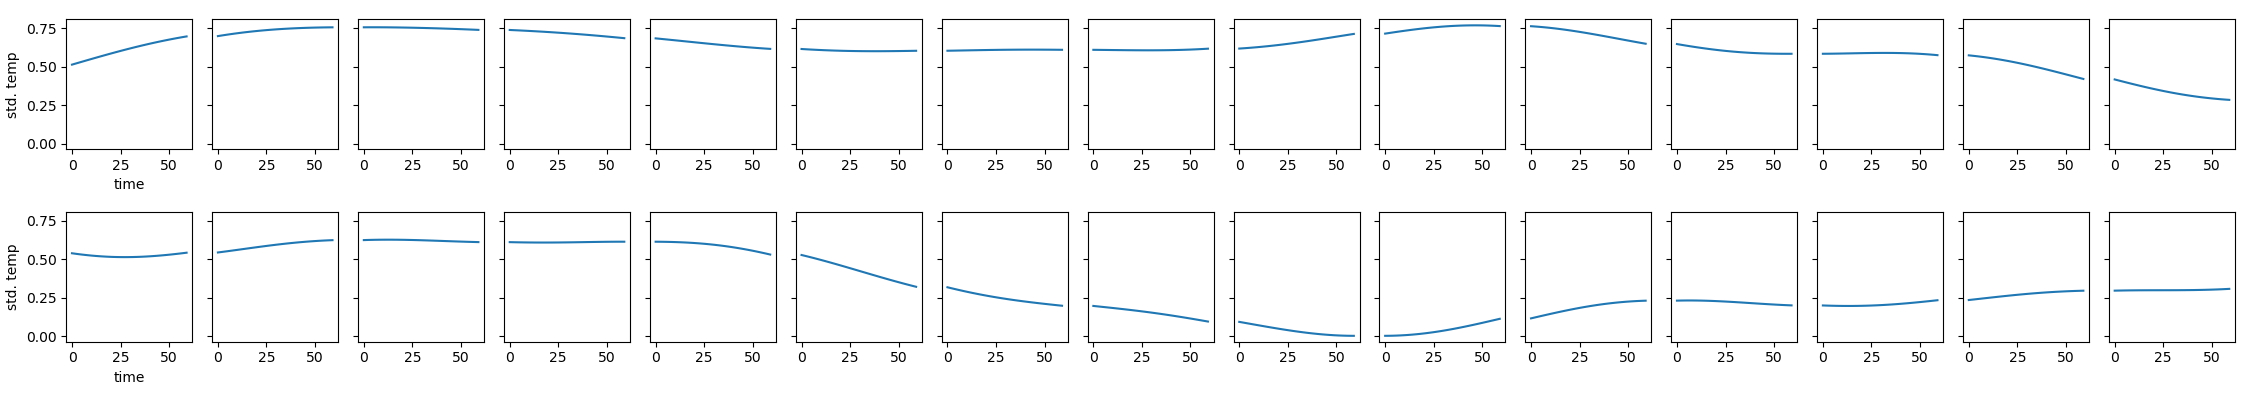
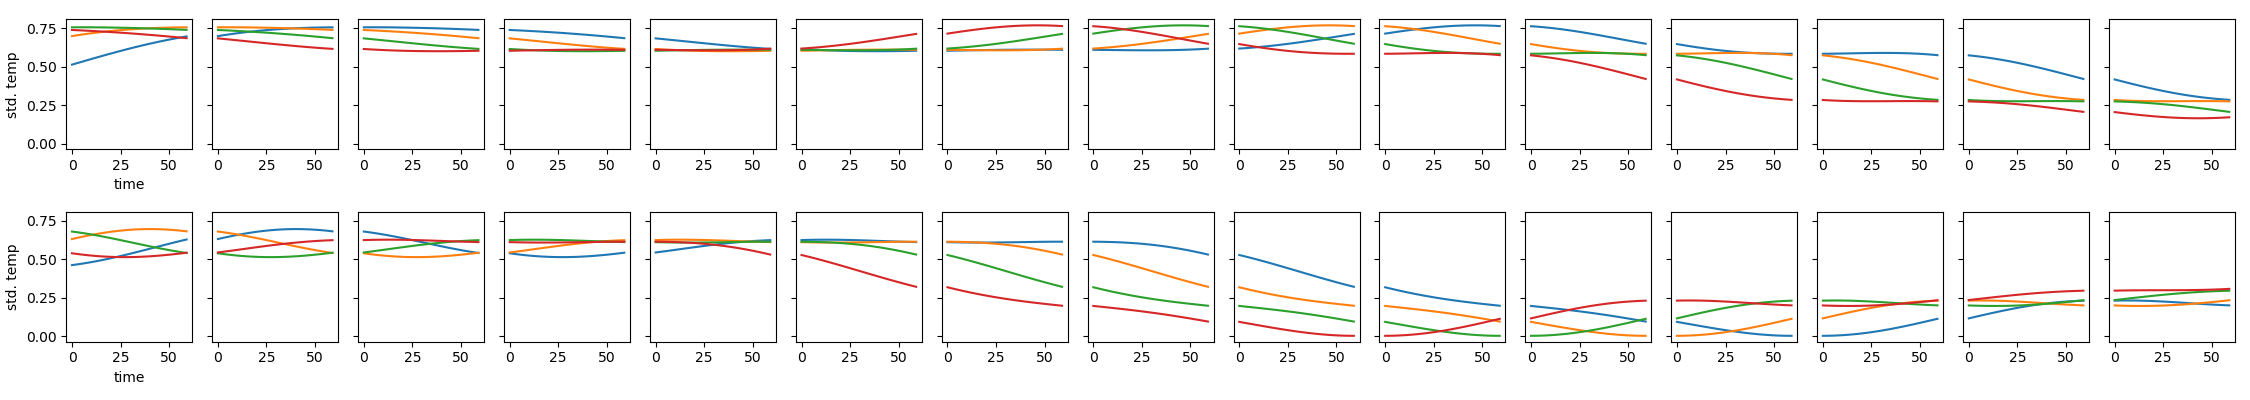
update mice model

diff --git a/mice_time_series_example.py b/mice_time_series_example.py
@@ -16,7 +16,7 @@ loader.load_ccd(path)
 
 lineName = ['CC001']
 segment_interval = 60
-embedding = [1, 0]  # time delayed embedding: [embedding dimension, delay]
+embedding = [4, 60]  # time delayed embedding: [embedding dimension, delay]
 miceDict = loader.get_cc_data_in_dict('CC001', segment_interval, embedding)
 miceDict_full = loader.get_cc_data_in_dict_full('CC001')
 # ----------------------------Prepare mice Data --------------------------------
@@ -65,11 +65,13 @@ inout_seq = healthy_train + sick_train
 
 fig, axes = plt.subplots(nrows=2, ncols=train_size, sharey='all', figsize=(train_size*1.5, 4))
 for i in range(train_size):
-    axes[0, i].plot(healthy_train[i][0][:, 0], label="negative_%d" % i)
+    for j in range(embedding[0]):
+        axes[0, i].plot(healthy_train[i][0][:, j], label="negative_%d" % i)
     if i == 0:
         axes[0, i].set_xlabel('time')
         axes[0, i].set_ylabel('std. temp')
-    axes[1, i].plot(sick_train[i][0][:, 0], label="positive_%d" % i)
+    for j in range(embedding[0]):
+        axes[1, i].plot(sick_train[i][0][:, j], label="positive_%d" % i)
     if i == 0:
         axes[1, i].set_xlabel('time')
         axes[1, i].set_ylabel('std. temp')
@@ -111,14 +113,14 @@ batch_train, batch_train_label = create_batch_data(inout_seq, batch_num, batch_s
 
 # ----------------------------Run LSTM Model -----------------------------------
 hidden_layer_size = 512
-layers = 2
+layers = 3
 lstm_model = simpleLSTM.SimpleLSTM(batch_size, input_size=embedding[0], hidden_size=hidden_layer_size, output_size=2
                                    , num_layers=layers)
 lstm_model = lstm_model.float()
 loss_function = nn.BCELoss()
 print(lstm_model.parameters)
 optimizer = torch.optim.Adam(lstm_model.parameters(), lr=0.0001)
-epoch = 500
+epoch = 200
 
 for i in range(epoch):
     batch_err = 0
@@ -133,12 +135,20 @@ for i in range(epoch):
         optimizer.step()
         # print('%5d th batch ---- error %8.6f' % (j, single_loss.item()))
         batch_err = batch_err + single_loss.item()
+    if batch_err < 0.35:
+        break
     print('epoch:%5d, batch_error: %8.6f' % (i, batch_err))
 print(ypred)
 
-
-positive_label, negative_label = np.array([1, 0]), np.array([0, 1])
-
+# -----------------------------summarize training result----------------------------------------------------------------
+correct = 0
+for i in range(len(ypred)):
+    left = np.linalg.norm(np.array(ypred[i].detach())-np.array(label[i]))
+    right = np.linalg.norm(np.array(ypred[i].detach())-(1-np.array(label[i])))
+    if left < right:
+        correct += 1
+accuracy = correct/len(ypred)
+print('training accuracy is %5.4f' % accuracy)
 """
 pred_label = []
 true_label = []

diff --git a/simpleLSTM.py b/simpleLSTM.py
@@ -12,7 +12,7 @@ class SimpleLSTM(nn.Module):
         self.num_layers = num_layers
         # functions
         self.lstm = nn.LSTM(input_size=input_size, hidden_size=self.hidden_layer_size, num_layers=self.num_layers,
-                            batch_first=True, dropout=0.2)
+                            batch_first=True, dropout=0.3)
         self.linear = nn.Linear(in_features=self.hidden_layer_size, out_features=output_size, bias=True)
         self.hidden_cell = (torch.zeros(self.num_layers, self.batch_size, self.hidden_layer_size),
                             torch.zeros(self.num_layers, self.batch_size, self.hidden_layer_size))
